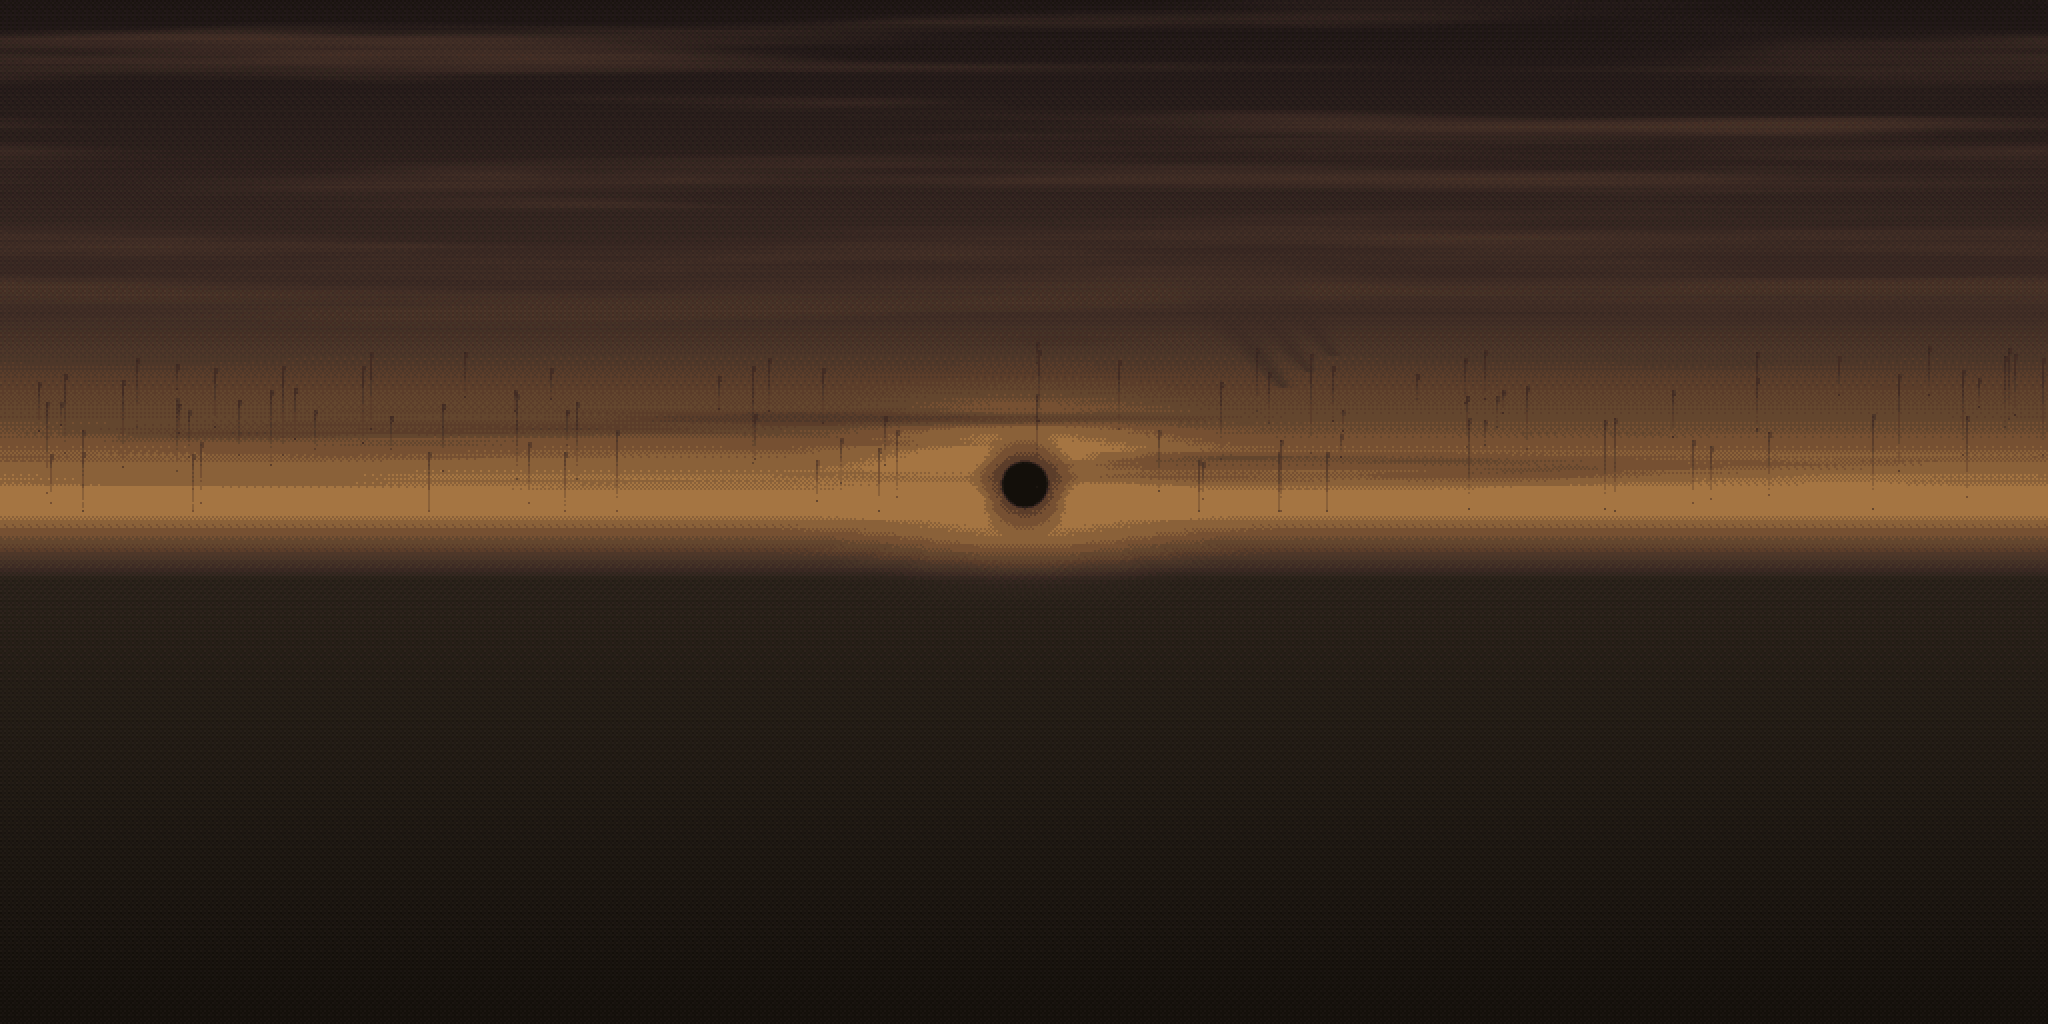
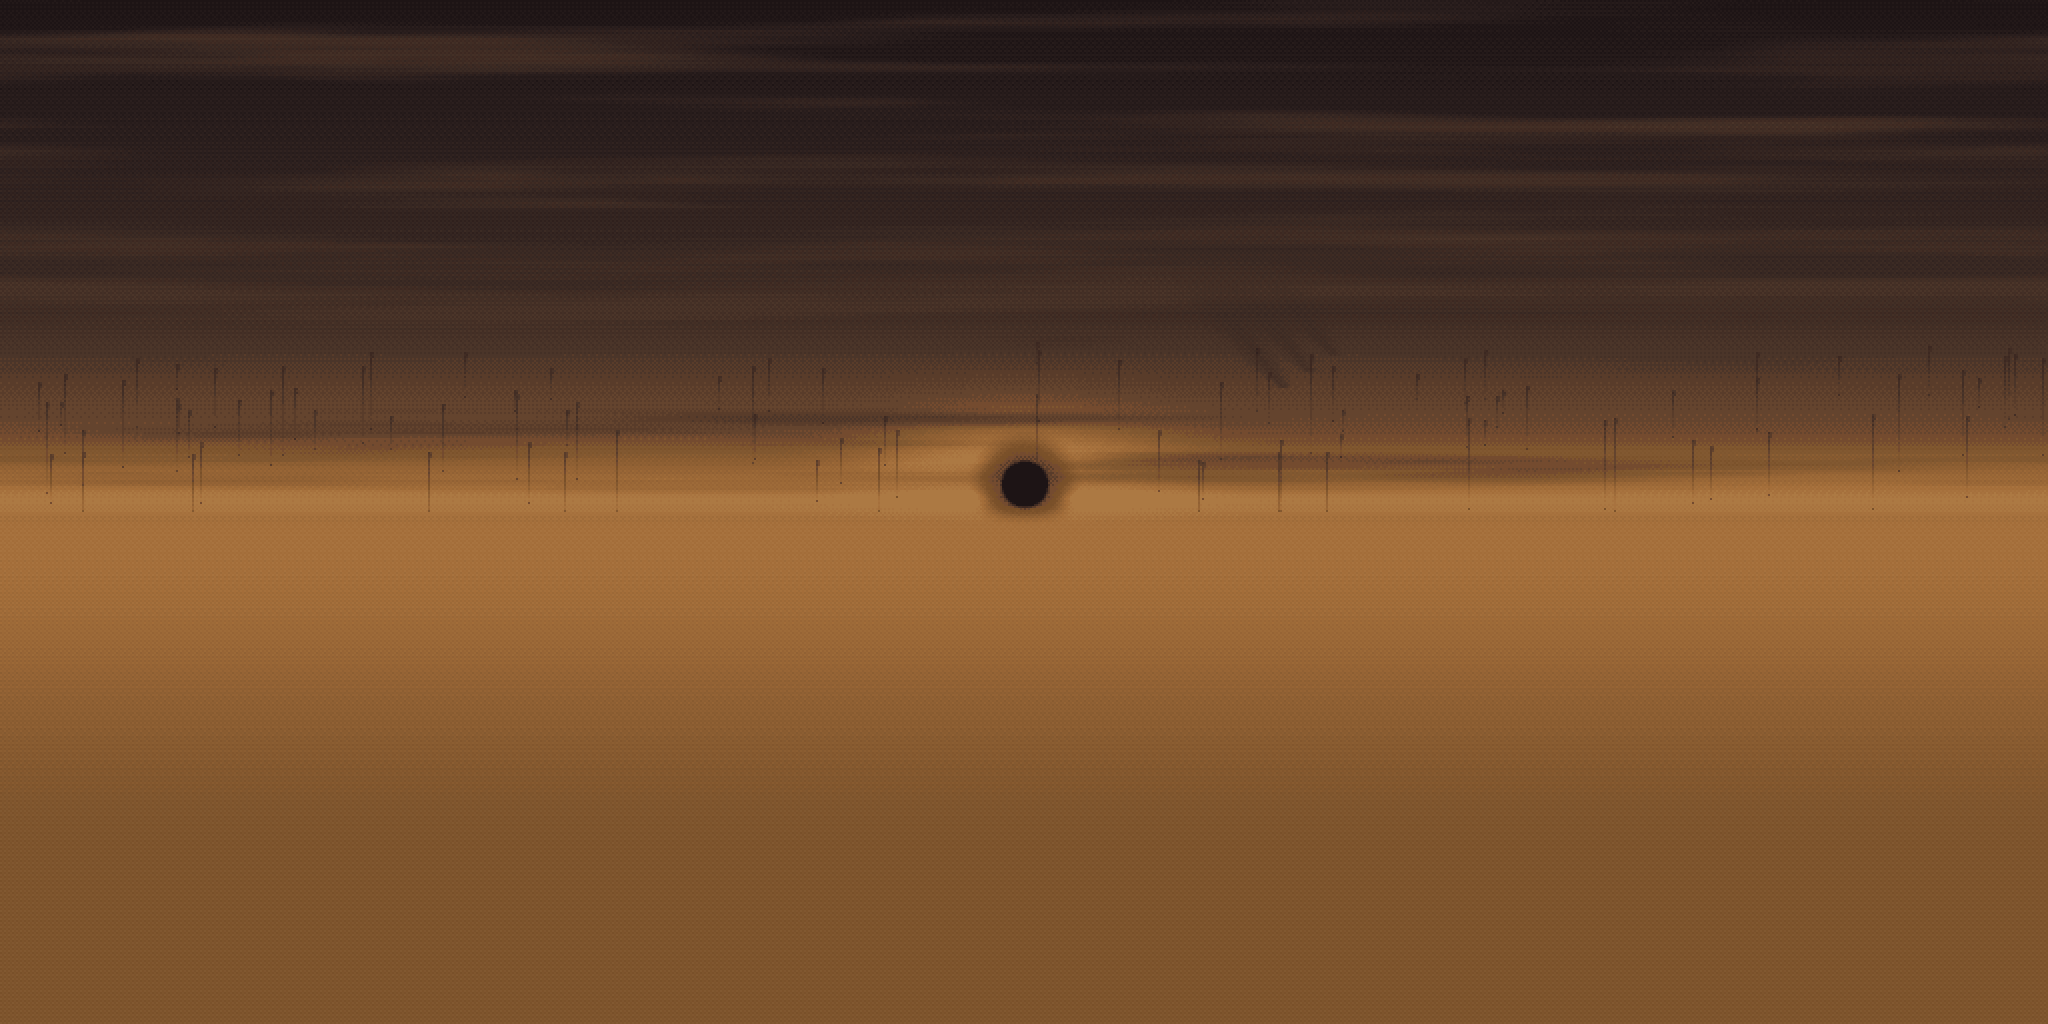
Add edge void fix pack and replace sky panoramas (below-horizon now the stage fog colour)
Claude-Session: https://claude.ai/code/session_01B6nSQ3nK2YrLfW5vhPVgmC

diff --git a/docs/stage_dressing/edge_fix/README.md b/docs/stage_dressing/edge_fix/README.md
@@ -1,0 +1,76 @@
+# Prompt: Fill the void past the arena edge + boundary fence
+
+Before you paste this:
+- Unzip `megaclonk_edge_void_fix.zip` into `docs/stage_dressing/edge_fix/` and commit it.
+- Then paste everything below the line into Claude Code.
+
+---
+
+From the lowest terrain, players see a black band below the horizon outside the arena. This happens because the
+sky panoramas are near-black below the horizon, `fog_sky_affect` is 0, and nothing fills the space between the
+torn edge and the bottom of the backdrop rings.
+
+**This is a visual pass only.** Terrain, collision, the perimeter wall, movement, spawning and determinism must
+not change.
+
+Inputs:
+- `docs/stage_dressing/edge_fix/skies/`: replacement sky-only panoramas with the same names. Below the horizon
+  they are now the stage fog colour.
+- `reference/oob.gd`: see its `outer_ground()`, `boundary_fence()` and `shot == "low"`.
+- `reference/renders/`: the target look from the lowest ground, before and after.
+
+Respect `docs/stage-dressing-report.md`. In particular, the game arena is 2× the reference, so scale reference
+distances by `arena_scale`.
+
+## Step 1: Skies
+Replace the four sky-only panoramas in `assets/stage_dressing/` (or wherever the dressing points) with the new
+files. Keep the import settings: nearest filter, no mipmaps, panorama `filter = false`.
+
+## Step 2: Outer ground
+Add a render-only flat ring mesh around the arena:
+- **Inner edge:** a square hole 2 m outside the arena edge (× arena_scale), so it never shows through the
+  playable ground.
+- **Outer edge:** 1.1 × the far ring radius.
+- **Height:** `outer_ground_drop` (4 m × arena_scale) below the **lowest terrain level**, so the torn edge
+  still shows a drop.
+- **Material:** the dressing's `low` texture, world triplanar, nearest filter, tinted to about 60%, with normal
+  scene fog.
+- **Cost:** no collision, no shadows, one draw call.
+
+Add `outer_ground_drop` to the rules resource.
+
+## Step 3: Backdrop rings
+Lower the mid and near rings' base so their bottom edge sits 0.5 m below the outer ground. Keep the far ring's
+base, which is already below it. Ring heights are unchanged.
+
+## Step 4: Boundary fence (visual only)
+Place a low fence along the existing perimeter collision wall, inset about 1 m.
+- **Posts:** every `gap` metres, each snapped to the terrain height under it, so the fence steps with the
+  terraces at every elevation.
+- **Rails and wires:** join neighbouring posts only when they're at the same height.
+- **Style per stage:** add a `fence` block to `StageDressing` and the JSON.
+
+| Stage | Fence | Post colour | Height | Gap | Extras |
+|---|---|---|---|---|---|
+| 1 Hollow | wooden posts, 3 barbed wires | #3A2E24 | 1.3 m | 3 m | – |
+| 2 Route 9 | steel posts, chain-link panels (cut-out texture), 2 rails | #5A5A56 | 2.0 m | 3 m | – |
+| 3 Downtown | sawhorse barricade line, red/white boards | #6A5A48 / #C8401F | 1.1 m | 2.6 m | – |
+| 4 Sinkhole | leaning mine timbers, red rope | #2A2018 / #8A1E1A | 1.5 m | 3.4 m | a candle at every third post |
+
+- **No collision.** The perimeter wall already blocks the player. The fence only shows where it is.
+- **Batching:** use MultiMesh or merged meshes, so all fence parts together cost a few draw calls. Report the
+  count.
+- **Readability:** keep it low enough not to block the view of the backdrop from the low ground.
+
+## Step 5: Checks
+- **New capture.** Add `stage{1-4}_D_lowest.png` from the lowest terrain cell nearest the north edge, eye height,
+  looking out. Find the spot the way the reference's `shot == "low"` does.
+  - No pure-black pixels may appear in the band below the horizon in any stage. Test this by sampling the frame.
+  - Also re-shoot shots A and C.
+- **Tests:**
+  - the outer ground has no collision and sits below the lowest terrain;
+  - the fence has no collision, and every post stands on the terrain under it;
+  - collision and spawn points are unchanged for a fixed seed.
+- **Report.** Draw calls before and after, then update `docs/stage-dressing-report.md`.
+
+Commit on `feature/stage-dressing` (or a follow-up branch) in small steps.
